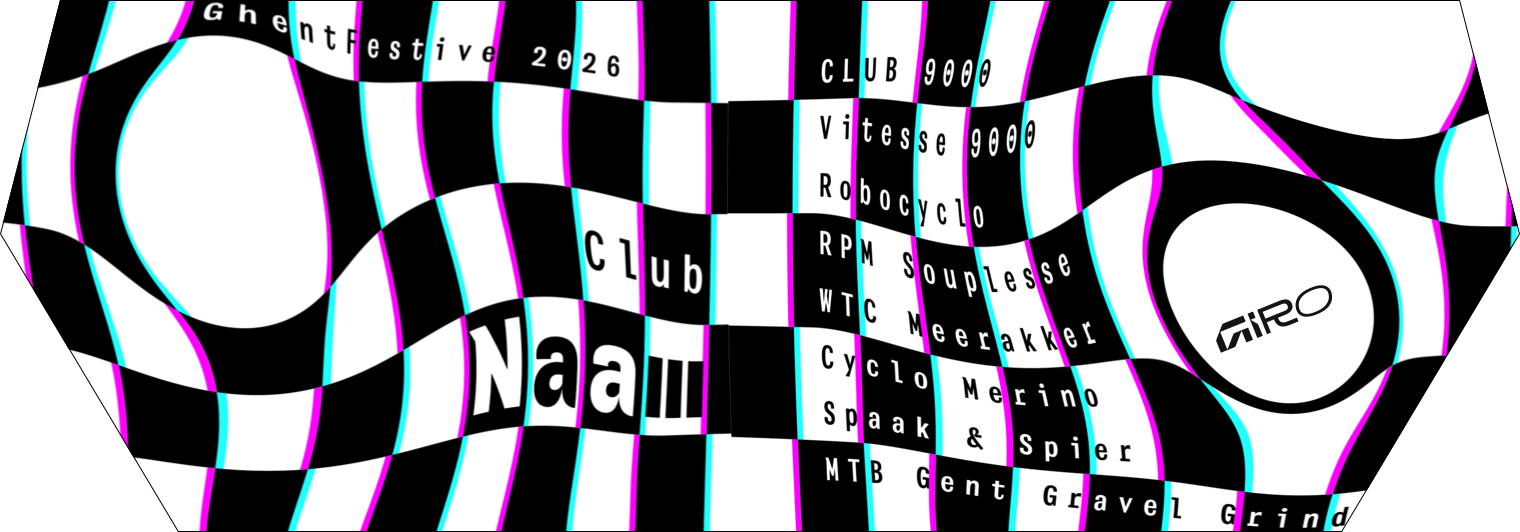
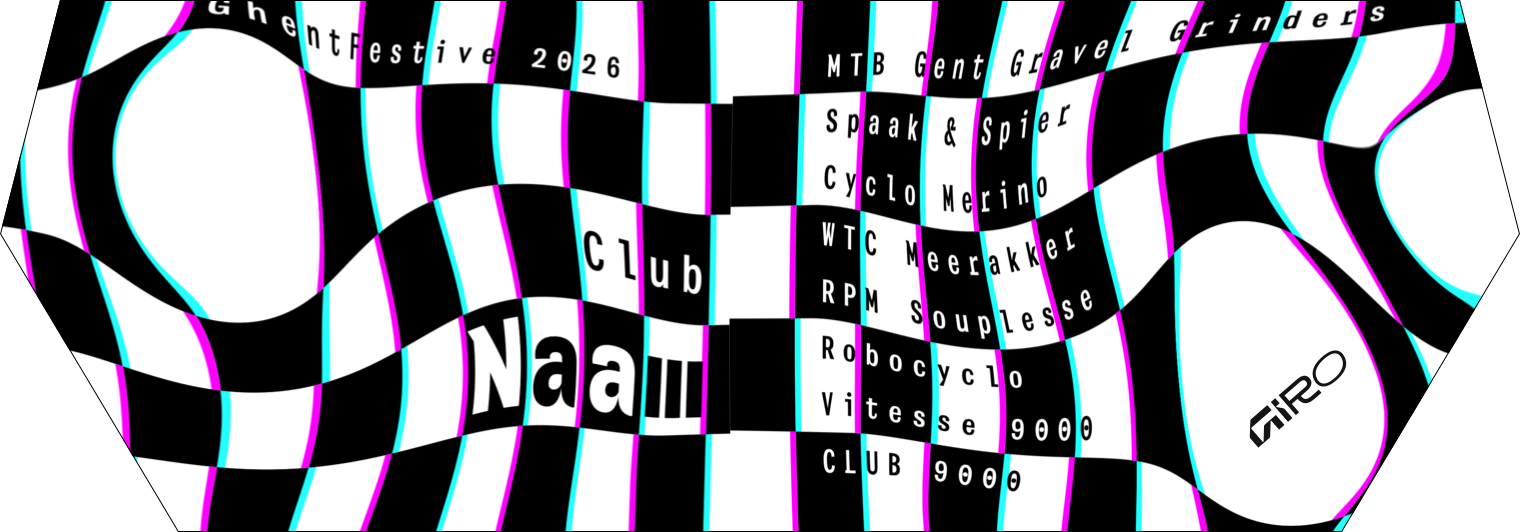
initial GF26

diff --git a/gpx.html b/gpx.html
@@ -18,23 +18,21 @@
 
     <main class="container">
         <header>
-            <hgroup>
-                <h1>GPX</h1>
-            </hgroup>
+            <h1>GPX</h1>
         </header>
 
         <section>
             <p>
-                Download de GPX bestanden van de routes van de 2025 editie van de Ghent Festive 500.
+                Download de GPX bestanden van de routes van de 2026 editie van de Ghent Festive 500.
             </p>
-            <div class="grid">
+<!--             <div class="grid">
                 <a href="resources/ghent-festive-500-alle-routes.zip" role="button" class="button-pink" download>
                     Download alle routes (ZIP)
                 </a>
-            </div>
+            </div> -->
         </section>
 
-        <section>
+        <!-- <section>
             <h2><a href="https://www.club9000.be/" target="_blank" rel="noopener">Club 9000</a></h2>
             <div class="grid">
                 <a href="resources/GF500 2025 - Club 9000 - 75km.gpx" role="button" class="button-cyan"
@@ -114,7 +112,7 @@
                 <a href="resources/GF500 2025 - WTC Meerakker - 100 km.gpx" role="button" class="button-cyan"
                     download>Download 100km route</a>
             </div>
-        </section>
+        </section> -->
 
     </main>
 

diff --git a/index.html b/index.html
@@ -21,13 +21,16 @@
             <div class="header-image-wrapper">
                 <img src="images/splash.png" alt="Ghent Festive 500" class="header-image">
             </div>
-            <hgroup>
+            <div>
                 <h1>Ghent Festive 500</h1>
                 <p>
-                    8 dagen • 8 Gentse fietsclubs • 8 social rides van 75 of 100 km alles voor het
+                    8 dagen • 8 Gentse fietsclubs • 8 social rides van 75 of 100 km
+                </p>
+                <p>Samen fietsen voor het
                     <a href="#goede-doel">goede doel</a> door aankoop van <a href="#kaderplaatje">kaderplaatjes</a>.
                 </p>
-            </hgroup>
+
+            </div>
             <div>
                 <p style="text-align: center;">
                     <a href="kaderplaatje.html" role="button" class="button-cyan">Bestel je kaderplaatje</a>
